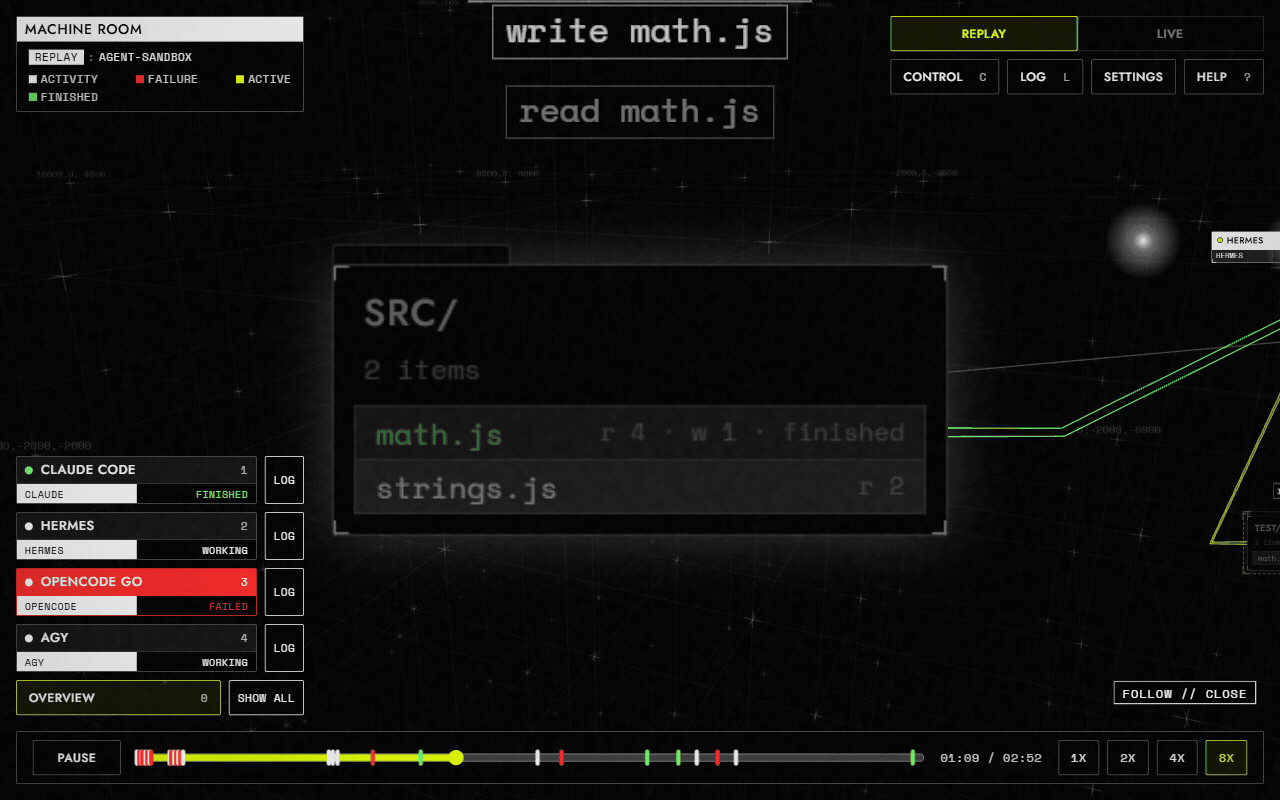
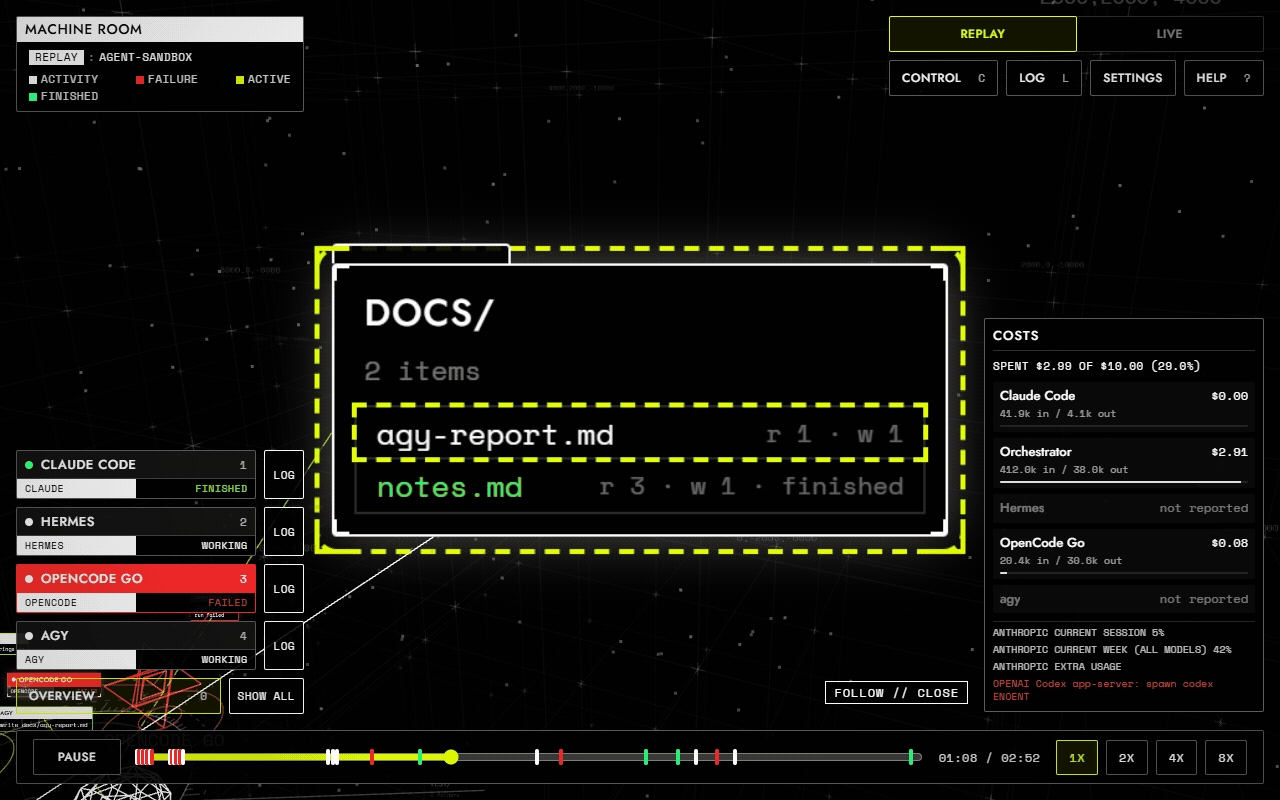
0.1.209: Retake three README screenshots for the current room.

diff --git a/docs/agents/CHANGELOG.md b/docs/agents/CHANGELOG.md
@@ -2,6 +2,8 @@
 
 ## Unreleased
 
+- Retake three README screenshots (task G4c): overview with two working agents, follow mode close up, and control drawer, showing the bottom right cost board, straight striped strips and default motes with no grain.
+
 - Review note on Q3: no fixes. 16 findings, each with a file and line, six proven by a Node check; V1 (the root card's depth mesh left at the hub centre) checked here against `cards.js`. V16 fixed at the merge. V3 held for the owner. Briefs Q3a to Q3d take the rest.
 - Brief G3g (bring the known limits and the numbers in `ARCHITECTURE.md` up to date).
 - Brief G4c (retake the three README screenshots that show the old cost board and strip).
